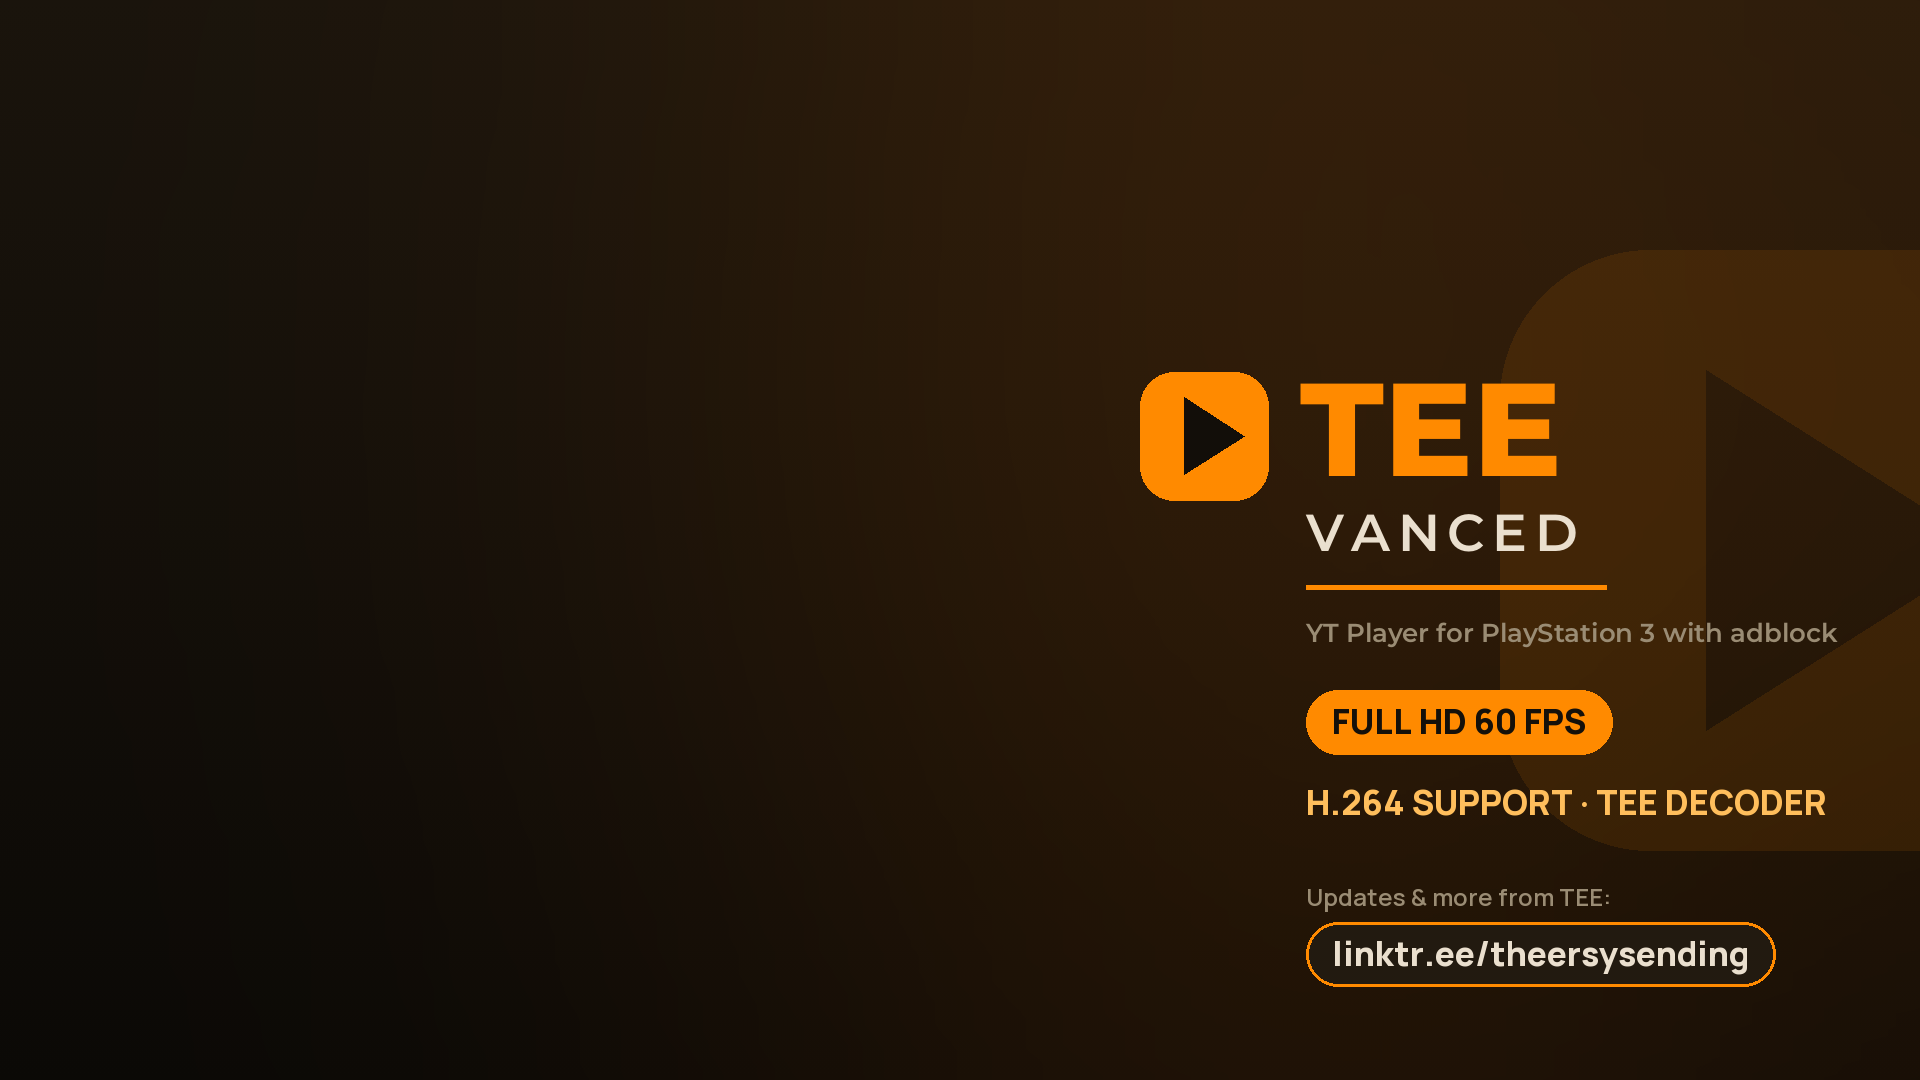
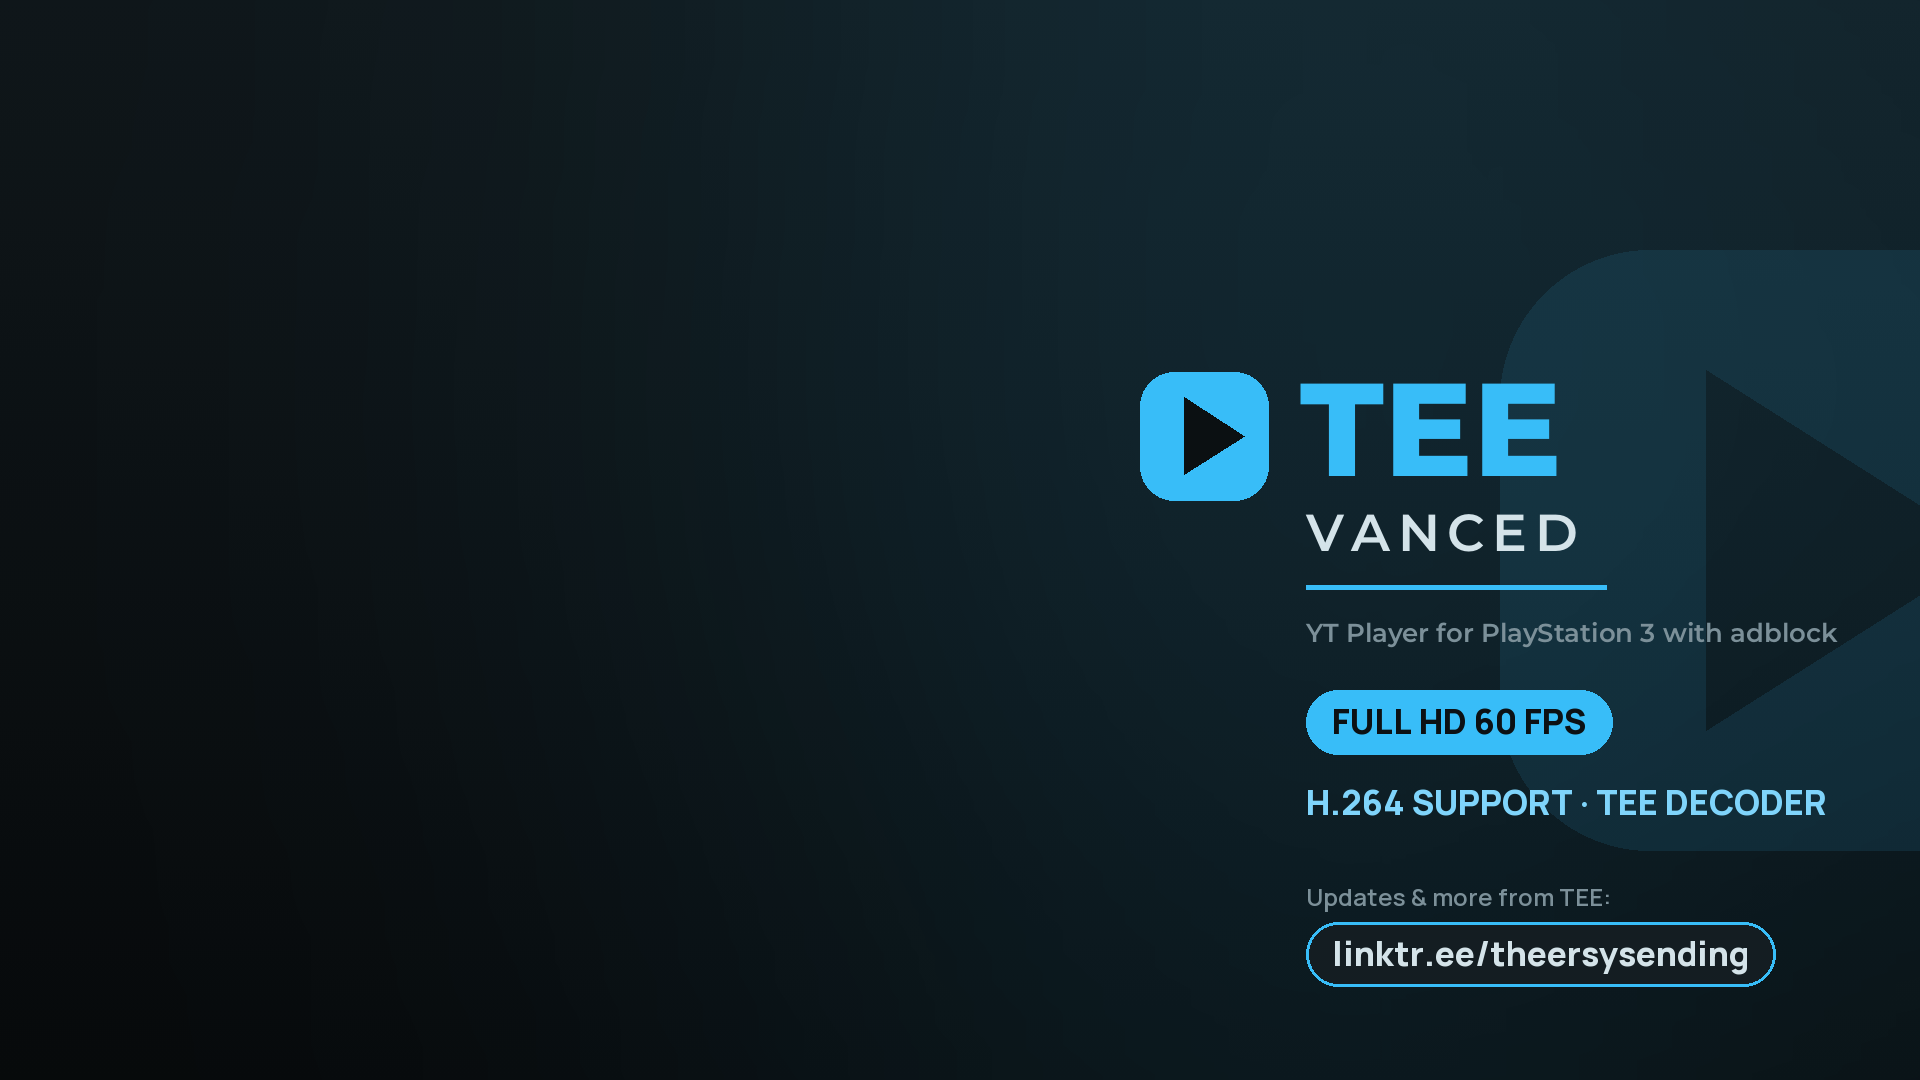
V3.0.0 Test 3 Blue: ice-blue palette instead of black and orange, XMB artwork recoloured
TEE (2026-11-11): the black-and-orange look goes - people took it for, or joked about it as, an adult
site's; it was meant as Black Ops 2's. Variant B of the three mockups: dark mode stays, ice blue
#38BDF8 is the accent on a deep blue-black, Ember's tokens with the same jobs and lightness.

- theme.c: the built-in [TEE] palette in blue; marker "palette: ice-1", so an older themes.txt (with
  Ember's orange [TEE] block) is backed up to themes.txt.bak and replaced once
- ICON0/PIC1/banner recoloured by tools/recolor-branding.py (warm hues -> the accent's, layout and text
  kept); make-branding.py's constants follow
- SponsorBlock intro coral instead of cyan (cyan is the played part of the seek bar now)

diff --git a/apps/yo-player/src/theme.c b/apps/yo-player/src/theme.c
@@ -18,45 +18,44 @@ static char themesPath[96], themesBackup[96], settingsPath[96];
 
 #define SETTINGS_BUFFER 4096
 
-// TEE: the app's own palette, taken straight from the icon so the console entry and the app are one
-// thing - #ff8a00 orange, the warm near-black ground and the cream text the user's other tools use
-// (TEE Video2Audio, TEEconverter). Since v1.0 these are the "Ember" design tokens (UEBERGABE 3.1/3.2):
-// the same orange, a slightly cooler ground, and helper textures instead of flat rectangles - the focus
-// glow is now a soft texture tinted with focusGlow rather than a second, wider ring.
+// TEE: the app's own palette. Since V3.0.0 it is ice blue on a deep blue-black (Variant B of TEE's three mockups,
+// 2026-11-11): the warm near-black with TEE orange of v1.0 - v2.0 ("Ember") went, because people took the app for,
+// or joked about it as, an adult site's look; it was meant as Black Ops 2's. The tokens are Ember's (UEBERGABE
+// 3.1/3.2) with the same jobs and the same lightness steps, only the hue changed: the accent is #38BDF8, the grounds
+// lean blue, the text is a cool off-white. The LIVE badge stays red and the letterbox black.
 static const Theme themeTee = {
-   .appBg            = 0xFF0E0C0A,
-   .surface          = 0xFF211C16,
-   .accent           = 0xFFFF8A00,
-   .focusBorder      = 0xFFFF8A00,
-   .focusGlow        = 0x73FF8A00,
-   .textPrimary      = 0xFFF5EFE6,
+   .appBg            = 0xFF091117,
+   .surface          = 0xFF162A35,
+   .accent           = 0xFF38BDF8,
+   .focusBorder      = 0xFF38BDF8,
+   .focusGlow        = 0x7338BDF8,
+   .textPrimary      = 0xFFF0F7FB,
    // Secondary text carries the button hints, the "Latest:" lines and every settings value, and it was
    // measured unreadable on the user's TV at 18px. A television is dimmer and further away than the
    // monitor this was picked on, so secondary sits much closer to primary here than a desktop palette
-   // would put it - legibility first, hierarchy second. Ember's text-2 is a little darker than the old
-   // value, which is why the same release raises the smallest reading text to 20 px.
-   .textSecondary    = 0xFFBDB3A5,
-   .badgeFill        = 0xD60A0806,
-   .scrim            = 0xD90A0805,
-   .rowHighlight     = 0x33FF8A00,
-   .seekTrack        = 0x4DF5EFE6,
-   .seekNotch        = 0xFF0E0C0A,
+   // would put it - legibility first, hierarchy second (the blue one keeps Ember's lightness).
+   .textSecondary    = 0xFFB0C2CF,
+   .badgeFill        = 0xD6060B0F,
+   .scrim            = 0xD906090D,
+   .rowHighlight     = 0x3338BDF8,
+   .seekTrack        = 0x4DF0F7FB,
+   .seekNotch        = 0xFF091117,
    .watchedThumbTint = 0xFF8C8C8C,   // 55 % brightness, opaque so the focus ring can't bleed through a watched tile
-   .surface1         = 0xFF17140F,
-   .surface3         = 0xFF2C251D,
-   .textTertiary     = 0xFF8F8578,   // only at 20 px or more, for the same reason as textSecondary above
-   .accentSoft       = 0x33FF8A00,
-   .accentText       = 0xFFFFAF52,
-   .onAccent         = 0xFF1A1208,
+   .surface1         = 0xFF0F1B23,
+   .surface3         = 0xFF1F3846,
+   .textTertiary     = 0xFF8DA4B3,   // only at 20 px or more, for the same reason as textSecondary above
+   .accentSoft       = 0x3338BDF8,
+   .accentText       = 0xFF7DD3FC,
+   .onAccent         = 0xFF04121A,
    .live             = 0xFFE5484D,
-   .knobGlow         = 0x80FF8A00,
-   .hintFill         = 0x1FF5EFE6,
-   .hintFillOnVideo  = 0x24F5EFE6,
-   .chipOnVideo      = 0xB814100C,
-   .panelOnVideo     = 0xDB14100C,
-   .progressTrack    = 0x47F5EFE6,
-   .hairline         = 0x14F5EFE6,
-   .gradientBase     = 0xFF080604,
+   .knobGlow         = 0x8038BDF8,
+   .hintFill         = 0x1FF0F7FB,
+   .hintFillOnVideo  = 0x24F0F7FB,
+   .chipOnVideo      = 0xB80A141A,
+   .panelOnVideo     = 0xDB0A141A,
+   .progressTrack    = 0x47F0F7FB,
+   .hairline         = 0x14F0F7FB,
+   .gradientBase     = 0xFF05090D,
    .letterbox        = 0xFF000000,   // video bars stay black whatever the theme: a tinted bar reads as part of the picture
    .focusThickness   = 4,
 };
@@ -97,12 +96,12 @@ static const ThemeColorField COLOR_FIELDS[] = {
 };
 #define COLOR_FIELD_COUNT ((int)(sizeof COLOR_FIELDS / sizeof COLOR_FIELDS[0]))
 
-// Says a themes.txt was written for the Ember palette. A file without it is from before v1.0 and still
-// holds the old [TEE] colours, which would override the new built-in on every launch - the new look would
-// simply never appear. initTheme treats such a file the way it treats one from before the rebrand: copied
-// to themes.txt.bak, then replaced. The marker is on the header's second line because the check only reads
-// the first 4 KB of the file.
-#define THEMES_FILE_MARKER "palette: ember-1"
+// Says a themes.txt was written for the current palette. A file without it is from an older version and still
+// holds that version's [TEE] colours (v1.0 - v2.0: Ember's orange), which would override the new built-in on every
+// launch - the new look would simply never appear. initTheme treats such a file the way it treats one from before
+// the rebrand: copied to themes.txt.bak, then replaced. The marker is on the header's second line because the
+// check only reads the first 4 KB of the file. (V3.0.0: "ember-1" became "ice-1" with the blue palette.)
+#define THEMES_FILE_MARKER "palette: ice-1"
 
 static const char *THEMES_FILE_HEADER =
    "# TEE Vanced themes - edit over FTP; changes apply on the next launch.\n"
@@ -127,7 +126,7 @@ static const char *THEMES_FILE_HEADER =
    "seekTrack=#FFFFFF66\n"
    "seekNotch=#000000\n"
    "watchedThumbTint=#4D4D4D\n"
-   // the v1.0 keys: without them this block would inherit TEE's orange highlights next to its red
+   // the v1.0 keys: without them this block would inherit TEE's blue highlights next to its red
    "surface1=#181818\n"
    "surface3=#383838\n"
    "textTertiary=#AAAAAA\n"
@@ -208,7 +207,7 @@ void initTheme(void)
       logError("[theme] could not read %s - left it as it is\n", themesPath);
    }
    if (!present || existing == 0 || backedUp) {
-      const char *reason = !stale ? "first launch" : preRebrand ? "replaced a pre-rebrand file" : "replaced a pre-Ember file";
+      const char *reason = !stale ? "first launch" : preRebrand ? "replaced a pre-rebrand file" : "replaced an older palette's file";
       int rc = writeThemeTemplate(&registry, themesPath, THEMES_FILE_HEADER);
       if (rc == 0) logInfo("[theme] wrote %s (%s)\n", themesPath, reason);
       else         logError("[theme] couldn't create %s\n", themesPath);

diff --git a/tools/recolor-branding.py b/tools/recolor-branding.py
@@ -1,0 +1,63 @@
+#!/usr/bin/env python3
+"""Recolour the XMB artwork from the old orange to the ice-blue palette (V3.0.0).
+
+TEE (2026-11-11): black and orange had to go - people took the app for, or joked about it as, an adult site's
+look; it was meant as Black Ops 2's. The artwork keeps its layout, wordmark and text: every warm pixel (hue 0 -
+70 degrees: the orange, the light orange, the cream text, the brown grounds) gets the accent's hue, sky blue
+#38BDF8, with its brightness kept and its saturation scaled to the accent's (the orange #FF8A00 becomes
+#38BDF8 itself). Neutral pixels stay as they are.
+
+usage: python recolor-branding.py <in.png> <out.png>   (run once per file: ICON0.PNG, PIC1.PNG, banner.png)
+"""
+
+import sys
+
+import numpy as np
+from PIL import Image
+
+TARGET = (0x38, 0xBD, 0xF8)
+
+
+def hsv(rgb):
+    r, g, b = (rgb[..., i] for i in range(3))
+    mx, mn = rgb.max(-1), rgb.min(-1)
+    d = mx - mn
+    h = np.zeros_like(mx)
+    nz = d > 1e-6
+    rm = nz & (mx == r)
+    gm = nz & (mx == g) & ~rm
+    bm = nz & ~rm & ~gm
+    h[rm] = ((g - b)[rm] / d[rm]) % 6
+    h[gm] = (b - r)[gm] / d[gm] + 2
+    h[bm] = (r - g)[bm] / d[bm] + 4
+    h *= 60.0
+    s = np.where(mx > 1e-6, d / np.maximum(mx, 1e-6), 0)
+    return h, s, mx
+
+
+def rgb_of(h, s, v):
+    c = v * s
+    hp = (h / 60.0) % 6
+    x = c * (1 - np.abs(hp % 2 - 1))
+    z = np.zeros_like(h)
+    out = np.zeros(h.shape + (3,))
+    for lo, (a, b_, c_) in enumerate(((c, x, z), (x, c, z), (z, c, x), (z, x, c), (x, z, c), (c, z, x))):
+        m = (hp >= lo) & (hp < lo + 1)
+        out[m] = np.stack([a[m], b_[m], c_[m]], -1)
+    return out + (v - c)[..., None]
+
+
+def main(src, dst):
+    im = np.asarray(Image.open(src).convert("RGB"), dtype=np.float64) / 255.0
+    h, s, v = hsv(im)
+    th, ts, tv = hsv(np.array(TARGET, dtype=np.float64)[None, None, :] / 255.0)
+    warm = (h <= 70.0) & (s > 0.02)
+    s2 = np.where(warm, s * ts[0, 0], s)            # the orange's full saturation -> the accent's
+    v2 = np.where(warm, v * (tv[0, 0] + (1 - tv[0, 0]) * (1 - s)), v)   # saturated pixels -> the accent's brightness
+    h2 = np.where(warm, th[0, 0], h)
+    out = np.clip(rgb_of(h2, s2, v2) * 255.0 + 0.5, 0, 255).astype(np.uint8)
+    Image.fromarray(out, "RGB").save(dst, optimize=True)
+    print("wrote", dst)
+
+
+main(sys.argv[1], sys.argv[2])

diff --git a/apps/yo-player/include/theme.h b/apps/yo-player/include/theme.h
@@ -1,8 +1,9 @@
 #pragma once
 
 // theme.h - yo-player's palette as one runtime-swappable struct, so every colour the UI draws comes
-// from one place. The shipped theme is TEE's own "Ember" palette (warm near-black, cream text, TEE orange
-// as the only accent); rounded shapes are white helper textures tinted with these colours (ui-draw.h).
+// from one place. The shipped theme is TEE's own palette - since V3.0.0 ice blue (#38BDF8) as the only accent
+// on a deep blue-black, Ember's tokens in another hue (v1.0 - v2.0 were warm near-black with TEE orange);
+// rounded shapes are white helper textures tinted with these colours (ui-draw.h).
 //
 // Themes live in themes.txt in the app's data directory (getAppDataDir(), see app-paths.h), written on
 // first launch with the built-in [TEE] block so every key is visible to edit over FTP. Edit that block to
@@ -16,7 +17,7 @@ typedef struct {
    uint32_t appBg;              // whole-screen background (Ember "bg"); also the colour list fades end in
    uint32_t surface;            // raised surface (Ember "surface-2"): chips, fields, the rail, the thumbnail
                                 // placeholder before the image lands
-   uint32_t accent;             // TEE orange: seek-bar fill, progress, the selected value, volume fill
+   uint32_t accent;             // the accent (ice blue): seek-bar fill, progress, the selected value, volume fill
    uint32_t focusBorder;        // the focus ring around the selected thumbnail, row or card
    uint32_t focusGlow;          // tints the soft glow texture drawn under the focus ring (Ember
                                 // "accent-glow") - the console has no blur, so the glow is a texture

diff --git a/tools/make-branding.py b/tools/make-branding.py
@@ -5,9 +5,9 @@ Two files, both consumed by the package build:
   ICON0.PNG  320x176  - the tile in the XMB game column
   PIC1.PNG  1920x1080 - the full-screen background the XMB shows while the tile is selected
 
-The palette is the one the user's other tools already use (TEE Video2Audio, TEEconverter), so the console
-entry looks like it belongs to the same family:
-  #ff8a00 orange (brand), #ffbe5c light orange, #eadfce warm off-white, #9a8c74 muted, #14100a background.
+Since V3.0.0 the palette is the app's ice blue (it was the orange of TEE's other tools until v2.0.0; see
+tools/recolor-branding.py, which turned the shipped files blue - Montserrat is not on the build machine):
+  #38bdf8 ice blue (brand), #7dd3fc light blue, #eaf2f7 cool off-white, #8aa0b0 muted, #071016 background.
 
 The XMB draws the game's title and its own chrome over the LEFT half of PIC1, so everything that has to stay
 readable lives on the right.
@@ -27,13 +27,13 @@ ROOT = pathlib.Path(__file__).resolve().parent.parent
 OUT = ROOT / "branding"
 OUT.mkdir(exist_ok=True)
 
-BRAND = (255, 138, 0)
-LIGHT = (255, 190, 92)
-CREAM = (234, 223, 206)
-MUTED = (154, 140, 116)
-INK = (20, 16, 10)
-BG_TOP = (32, 25, 15)
-BG_BOTTOM = (16, 13, 8)
+BRAND = (56, 189, 248)
+LIGHT = (125, 211, 252)
+CREAM = (234, 242, 247)
+MUTED = (138, 160, 176)
+INK = (4, 18, 26)
+BG_TOP = (14, 28, 38)
+BG_BOTTOM = (7, 13, 18)
 
 HEAVY = "/usr/share/fonts/opentype/montserrat/Montserrat-ExtraBold.otf"
 MEDIUM = "/usr/share/fonts/opentype/montserrat/Montserrat-SemiBold.otf"

diff --git a/apps/yo-player/src/sidebar.c b/apps/yo-player/src/sidebar.c
@@ -14,7 +14,7 @@
 #include <string.h>
 
 // Ember's rail at 1920x1080. Collapsed (Bild 1 and 3) it is a 112-px column with no surface of its own: the
-// orange logo tile, then one 64x64 slot per entry, 14 apart, and Settings alone at the foot.
+// accent logo tile, then one 64x64 slot per entry, 14 apart, and Settings alone at the foot.
 #define LOGO_X         26
 #define LOGO_Y         48         // the top of the safe area
 #define LOGO_SIZE      60
@@ -209,8 +209,8 @@ static void drawCollapsed(int screenH, int active)
    }
 }
 
-// The expanded panel. The highlight (where X would go) is the accent-soft row with an orange icon and its
-// name in accent-text; the entry the content belongs to keeps its orange icon and reads in text-1 while the
+// The expanded panel. The highlight (where X would go) is the accent-soft row with an accent icon and its
+// name in accent-text; the entry the content belongs to keeps its accent icon and reads in text-1 while the
 // highlight is elsewhere, so both stay visible at once; the rest are text-2.
 static void drawExpanded(int screenH)
 {

diff --git a/apps/yo-player/src/sponsorblock.c b/apps/yo-player/src/sponsorblock.c
@@ -36,10 +36,11 @@ static const unsigned CATEGORY_COLORS[SPONSOR_CATEGORY_COUNT] = {
    0xFF2BD45A,   // sponsor        - green
    0xFFF5D90A,   // selfpromo      - yellow
    0xFFC266FF,   // interaction    - violet
-   0xFF22D3EE,   // intro          - cyan
+   // coral since V3.0.0: Ember's cyan is all but the new ice-blue accent, the played part of the seek bar
+   0xFFFF6B6B,   // intro          - coral
    0xFF5B6BFF,   // outro          - blue
    // pink: SponsorBlock's orange (#FF9900) all but vanished against the TEE-orange played part of the
-   // seek bar, which is exactly where these spans are drawn
+   // seek bar (v1.0 - v2.0), which is exactly where these spans are drawn
    0xFFF25DB0,   // music_offtopic - pink
    0xFF9B6BFF,   // filler         - purple
 };

diff --git a/apps/yo-player/include/app-paths.h b/apps/yo-player/include/app-paths.h
@@ -31,4 +31,4 @@ const char *getAppDataDir(void);
 // The version shown in the app and on its settings card. BUILD_STAMP is a git count+hash and stays
 // identical between builds while the tree is uncommitted, so it cannot tell two packages apart - which
 // is exactly what made a shipped-but-stale build hard to identify from a screenshot.
-#define APP_VERSION "V3.0.0 Test 2 SPE"
+#define APP_VERSION "V3.0.0 Test 3 Blue"
